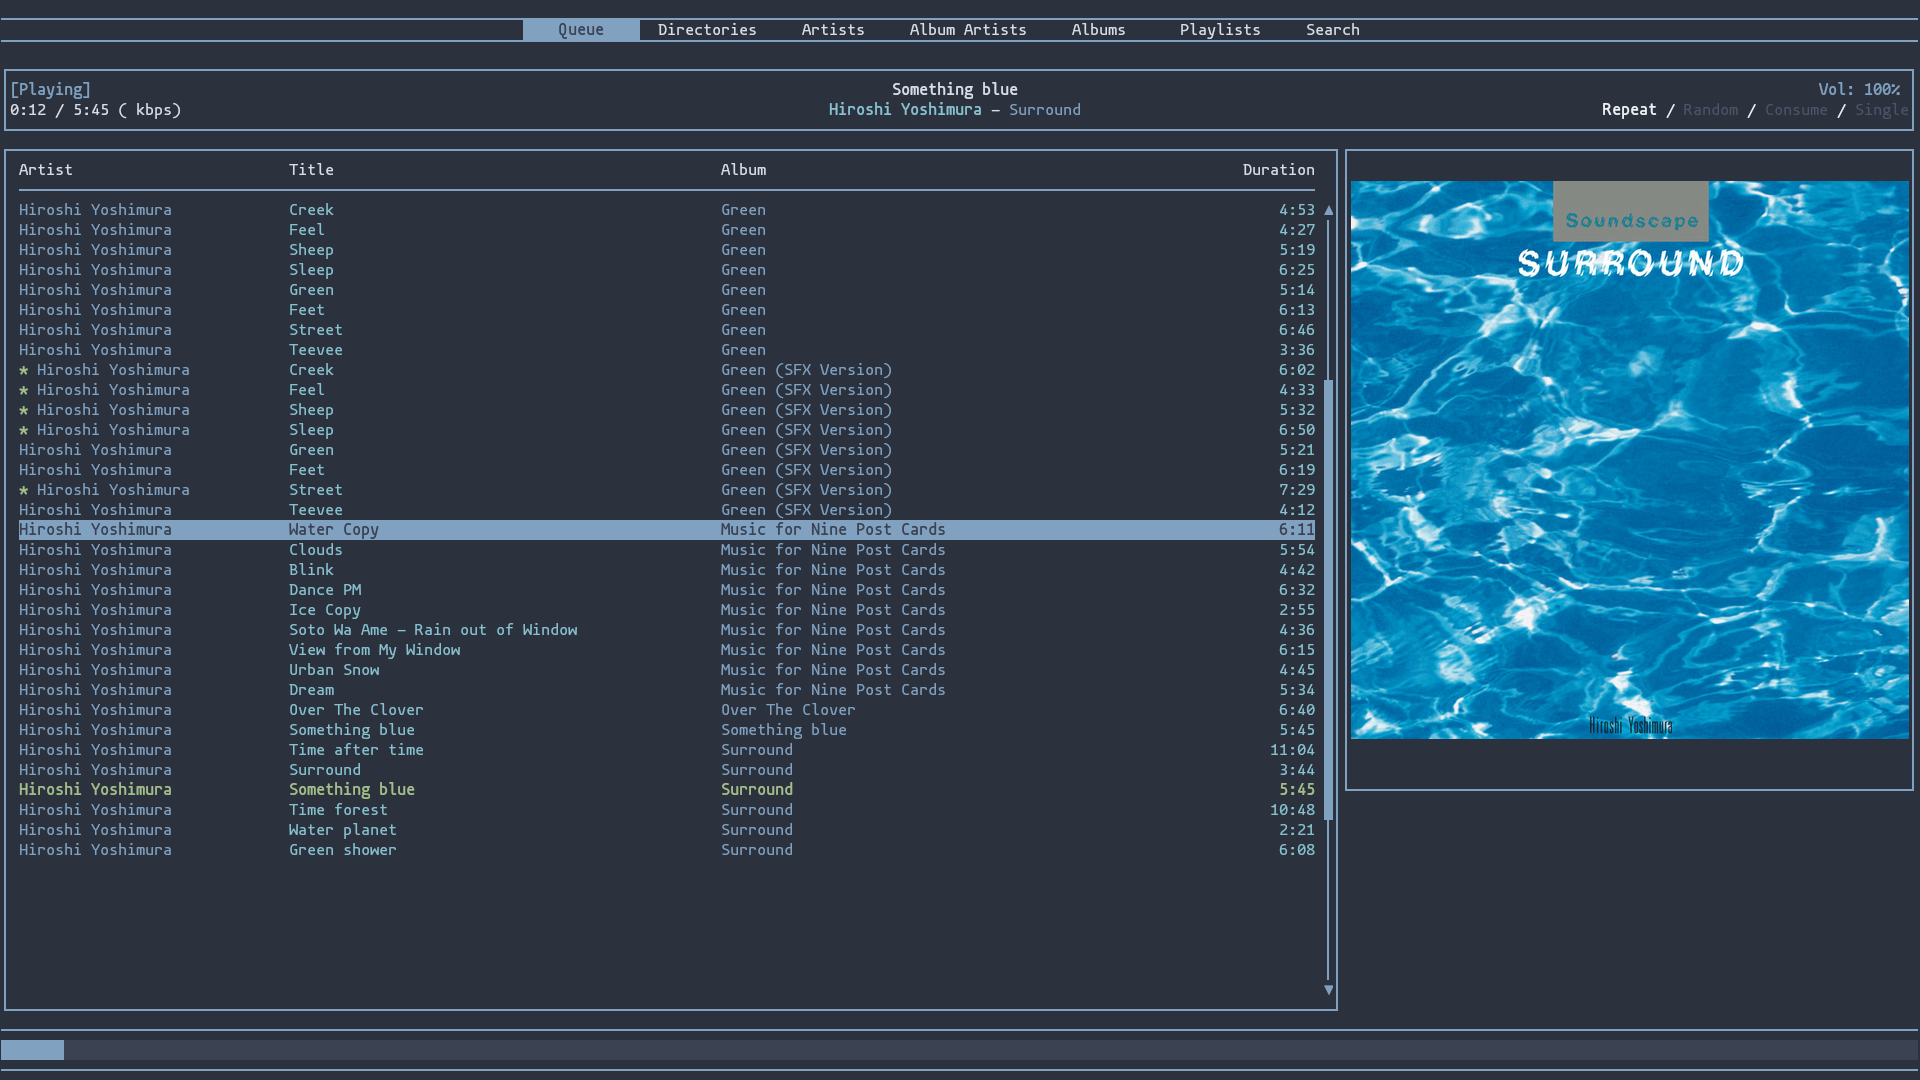
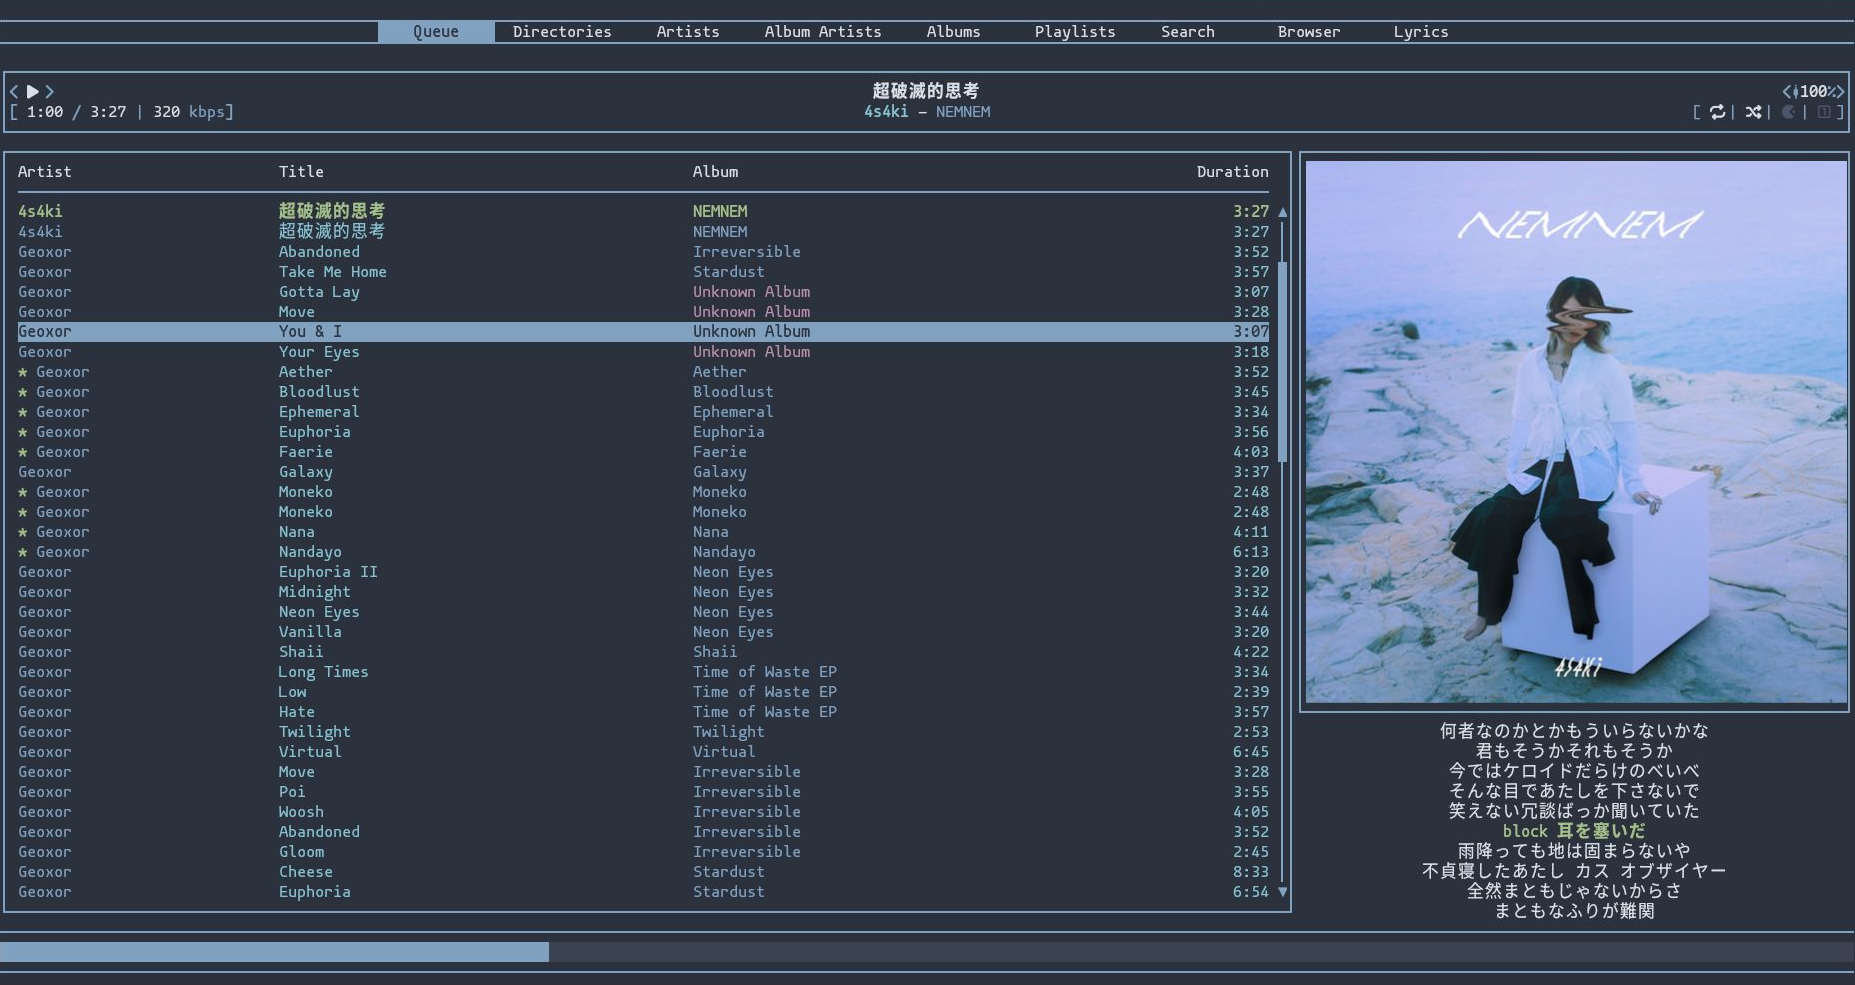
update nord theme (#341)

Changed region(s): [[0.0, 0.0, 1.0, 1.0]]

diff --git a/CHANGELOG.md b/CHANGELOG.md
@@ -30,7 +30,8 @@ lists they are listed as multiple entries.
 - added `Shuffle` queue action allowing you to shuffle the whole queue or selected range(s)
 - added `QueueLength` status property which displays number of songs in the current queue
 - added `QueueTimeTotal` and `QueueTimeRemaining` status properties which display sum of time of songs in your queue and of the remaining songs respectively
-
+- Add Nord community theme
+ 
 ### Changed
 
 - **Breaking**: Songs are no longer sorted by their `browser_song_format`. The new `browser_song_sort` is used instead
